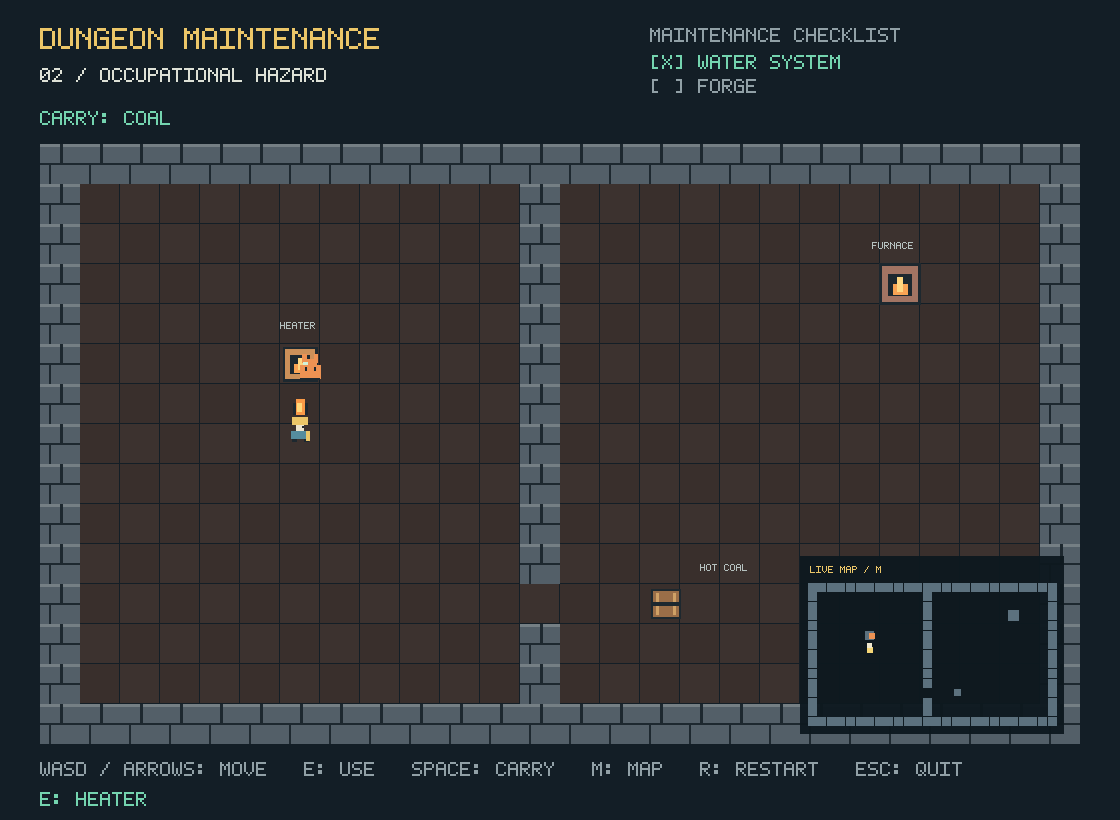
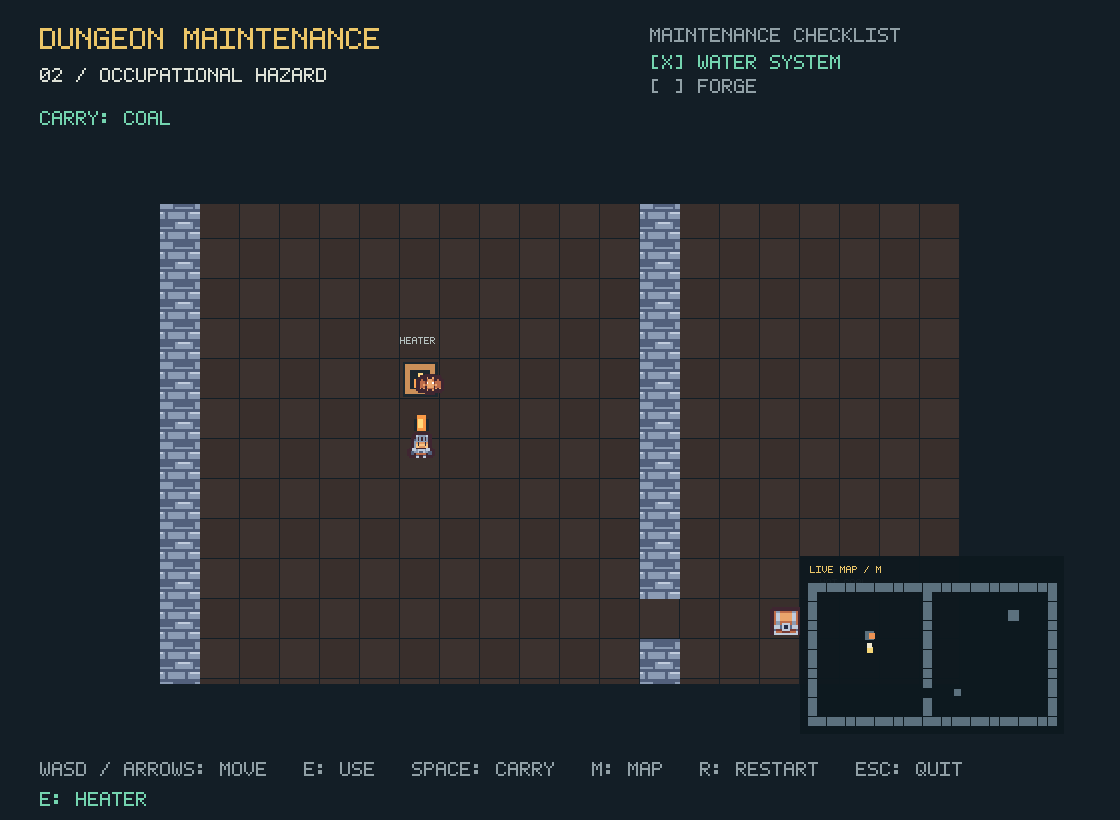
Add configurable frame timing and update the demo README
Added a 60 FPS default and a --fps option. The game loop waits when a frame finishes early and uses the elapsed time between frames for movement.

Updated the README with build and run instructions, an explanation of the following view, and new screenshots from both rooms.

diff --git a/src/Engine.cpp b/src/Engine.cpp
@@ -9,14 +9,17 @@
 #include "Textures.h"
 #include <algorithm>
 #include <array>
+#include <chrono>
 #include <cmath>
 #include <queue>
 #include <stdexcept>
+#include <thread>
 
 bool Engine::isRunning = false;
 View Engine::view{160,204,800,480};
 std::vector<std::unique_ptr<GameObject>> Engine::gameObjects, Engine::pendingObjects;
 std::string Engine::heldItem, Engine::dataPath, Engine::notification;
+int Engine::targetFps = 60;
 double Engine::deltaTime = 1.0/60.0, Engine::notificationTime = 0;
 int Engine::currentRoom = 0, Engine::requestedRoom = -1;
 bool Engine::waterRestored = false, Engine::won = false, Engine::minimap = false;
@@ -60,19 +63,34 @@ void Engine::handleEvents() {
     if (Input::isKeyPressed(SDLK_ESCAPE)) isRunning=false;
 }
 void Engine::run(int frameLimit) {
-    Uint64 previous=SDL_GetPerformanceCounter();
+    using Clock = std::chrono::steady_clock;
+    using Seconds = std::chrono::duration<double>;
+    const Seconds frameBudget{1.0/targetFps};
+    auto previous=Clock::now();
+    auto deadline=previous+frameBudget;
     int frames=0;
     while (isRunning && (!frameLimit || frames < frameLimit)) {
-        Uint64 now=SDL_GetPerformanceCounter();
-        double seconds=static_cast<double>(now-previous)/SDL_GetPerformanceFrequency();
-        previous=now;
-        handleEvents(); step(seconds); render();
+        const auto frameStart=Clock::now();
+        handleEvents();
+        if (!isRunning) break;
+        // The first frame has no previous frame to measure.
+        step(frames == 0 ? frameBudget.count() : Seconds(frameStart-previous).count());
+        previous=frameStart;
+        render();
         ++frames;
-        SDL_Delay(1);
+        const auto frameEnd=Clock::now();
+        if (frameEnd < deadline) {
+            std::this_thread::sleep_until(deadline);
+        } else {
+            deadline=frameEnd;
+        }
+        // Keep the schedule when sleep wakes us a little late.
+        deadline+=frameBudget;
     }
 }
 void Engine::step(double seconds) {
-    deltaTime=std::clamp(seconds,0.0001,0.05);
+    deltaTime=seconds;
+    if (deltaTime <= 0) return;
     update();
 }
 void Engine::update() {

diff --git a/src/SelfTests.cpp b/src/SelfTests.cpp
@@ -67,7 +67,7 @@ void testTextures() {
     }
     check(rejected,"sprite initialization reports a missing asset name");
 }
-void tick(std::set<SDL_Keycode> keys={}, int frames=1) {
+void tick(std::set<SDL_Keycode> keys={}, int frames=1, double seconds=1.0/60.0) {
     const std::set<SDL_Keycode> all{SDLK_w,SDLK_a,SDLK_s,SDLK_d,SDLK_e,SDLK_SPACE,SDLK_r,SDLK_m};
     for (int i=0;i<frames;++i) {
         Input::beginFrame();
@@ -75,7 +75,7 @@ void tick(std::set<SDL_Keycode> keys={}, int frames=1) {
             SDL_Event event{}; event.type=keys.count(key)?SDL_KEYDOWN:SDL_KEYUP;
             event.key.keysym.sym=key; Input::processEvent(event);
         }
-        Engine::step(1.0/60.0);
+        Engine::step(seconds);
     }
 }
 BodyComponent& body(const std::string& id) {
@@ -137,12 +137,24 @@ void testView(const std::string& captures) {
     check(Engine::view.centerX==400 && Engine::view.centerY==360 && body("player").x()==86 && body("player").y()==446,
           "room restart resets the player and view");
 }
+
+void testMovementTiming() {
+    for (int fps : {15,30,60}) {
+        Engine::loadRoom(0);
+        double startX=body("player").x();
+        tick({SDLK_d},fps,1.0/fps);
+        check(std::abs(body("player").x()-startX-180)<0.001,
+              "player moves 180 pixels in one second at "+std::to_string(fps)+" FPS");
+    }
+    Engine::loadRoom(0);
+}
 }
 
 int runSelfTests(const std::string& captures) {
     if (!captures.empty()) std::filesystem::create_directories(captures);
     testTextures();
     testView(captures);
+    testMovementTiming();
     ComponentFactory factory;
     auto object=factory.fromString("<GameObject id='sample'><BodyComponent x='3' y='4' vx='5' vy='6' angle='15'/></GameObject>");
     auto* b=object->get<BodyComponent>();

diff --git a/src/main.cpp b/src/main.cpp
@@ -1,6 +1,7 @@
 #define SDL_MAIN_HANDLED
 #include "Engine.h"
 #include <SDL2/SDL.h>
+#include <charconv>
 #include <filesystem>
 #include <iostream>
 #include <stdexcept>
@@ -17,8 +18,15 @@ int main(int argc, char** argv) {
             if (arg=="--self-test") test=true;
             else if (arg=="--data" && i+1<argc) data=argv[++i];
             else if (arg=="--frames" && i+1<argc) frames=std::stoi(argv[++i]);
+            else if (arg=="--fps" && i+1<argc) {
+                const std::string value=argv[++i];
+                const char* end=value.data()+value.size();
+                auto [parsed, error]=std::from_chars(value.data(),end,Engine::targetFps);
+                if (error != std::errc{} || parsed != end || Engine::targetFps <= 0)
+                    throw std::runtime_error("--fps requires a positive whole number");
+            }
             else if (arg=="--capture-dir" && i+1<argc) captures=argv[++i];
-            else throw std::runtime_error("Usage: dungeon-maintenance [--self-test] [--data DIR] [--frames N] [--capture-dir DIR]");
+            else throw std::runtime_error("Usage: dungeon-maintenance [--fps N] [--self-test] [--data DIR] [--frames N] [--capture-dir DIR]");
         }
         if (test && !SDL_getenv("SDL_VIDEODRIVER")) SDL_setenv("SDL_VIDEODRIVER","dummy",1);
         SDL_SetMainReady();

diff --git a/src/Graphics.cpp b/src/Graphics.cpp
@@ -13,8 +13,7 @@ bool Graphics::init(int width, int height, bool headless) {
     window = SDL_CreateWindow("Dungeon Maintenance",SDL_WINDOWPOS_CENTERED,SDL_WINDOWPOS_CENTERED,
         width,height,headless ? SDL_WINDOW_HIDDEN : SDL_WINDOW_RESIZABLE);
     if (!window) return false;
-    renderer = SDL_CreateRenderer(window,-1,headless ? SDL_RENDERER_SOFTWARE :
-                                  SDL_RENDERER_ACCELERATED|SDL_RENDERER_PRESENTVSYNC);
+    renderer = SDL_CreateRenderer(window,-1,headless ? SDL_RENDERER_SOFTWARE : SDL_RENDERER_ACCELERATED);
     if (!renderer) renderer = SDL_CreateRenderer(window,-1,SDL_RENDERER_SOFTWARE);
     if (!renderer) return false;
     return SDL_RenderSetLogicalSize(renderer,width,height) == 0 &&

diff --git a/src/Engine.h b/src/Engine.h
@@ -37,6 +37,7 @@ public:
     static double distance(const BodyComponent& a, const BodyComponent& b);
     static void message(const std::string& text);
     static void capture(const std::string& path);
+    static int targetFps;
     static double deltaTime;
     static int currentRoom;
     static bool waterRestored, won, minimap;

diff --git a/README.md b/README.md
@@ -1,8 +1,8 @@
 # Dungeon Maintenance
 
-Dungeon Maintenance is a top-down puzzle demo built with C++17 and SDL2 for the component architecture assignment. Carry parts, push crates, and redirect creatures to repair the dungeon's pump and forge. Both repairs are needed to pass inspection.
+Dungeon Maintenance is a top-down puzzle demo built with C++17 and SDL2. Carry parts, push crates, and redirect creatures to repair the dungeon's pump and forge. Both repairs are needed to pass inspection.
 
-![Pump room](docs/images/pump_room.png)
+![The repaired pump at the right edge of the room](docs/images/pump_room.png)
 
 ## Build and run
 
@@ -29,6 +29,8 @@ For Linux or an MSYS2 terminal with the dependencies installed:
 bash build.sh
 ./build/dungeon-maintenance
 ```
+
+The game targets 60 FPS by default. To try 30 FPS on Windows, run `.\build\dungeon-maintenance.exe --fps 30`. In Bash, run `./build/dungeon-maintenance --fps 30`.
 
 ## Controls
 
@@ -63,6 +65,10 @@ TinyXML2 reads the rooms in `data`. `ComponentFactory` uses a map of constructor
 
 The player, creatures, walls, and pushable chest use [Kenney's Tiny Dungeon](https://kenney.nl/assets/tiny-dungeon) assets under CC0. Machinery, items, and water retain the original artwork, saved as BMPs. Source filenames and the included license are in `data/textures`.
 
+The engine's `View` follows the player and stops at room edges. Sprites, floor tiles, and labels draw relative to the view. The interface and minimap stay in place as the room scrolls.
+
+The game loop waits for the time left in each frame and skips the wait when a frame runs over budget. Movement and collisions use `deltaTime` in seconds so the player covers the same distance over the same time at different frame rates.
+
 ![Forge room with the minimap enabled](docs/images/forge_room.png)
 
 ## Tests
@@ -71,4 +77,4 @@ The player, creatures, walls, and pushable chest use [Kenney's Tiny Dungeon](htt
 .\build\dungeon-maintenance.exe --self-test
 ```
 
-The automated checks cover asset discovery and loading errors, components, XML validation, input, collisions, carrying, creature behavior, both repairs, and restart. Build output stays in the ignored `build` folder.
+The automated checks cover asset loading, input, collisions, camera following, and a full playthrough of both rooms. A timing check verifies that the player moves 180 pixels in one second at 15, 30, and 60 FPS. Build output stays in the ignored `build` folder.
